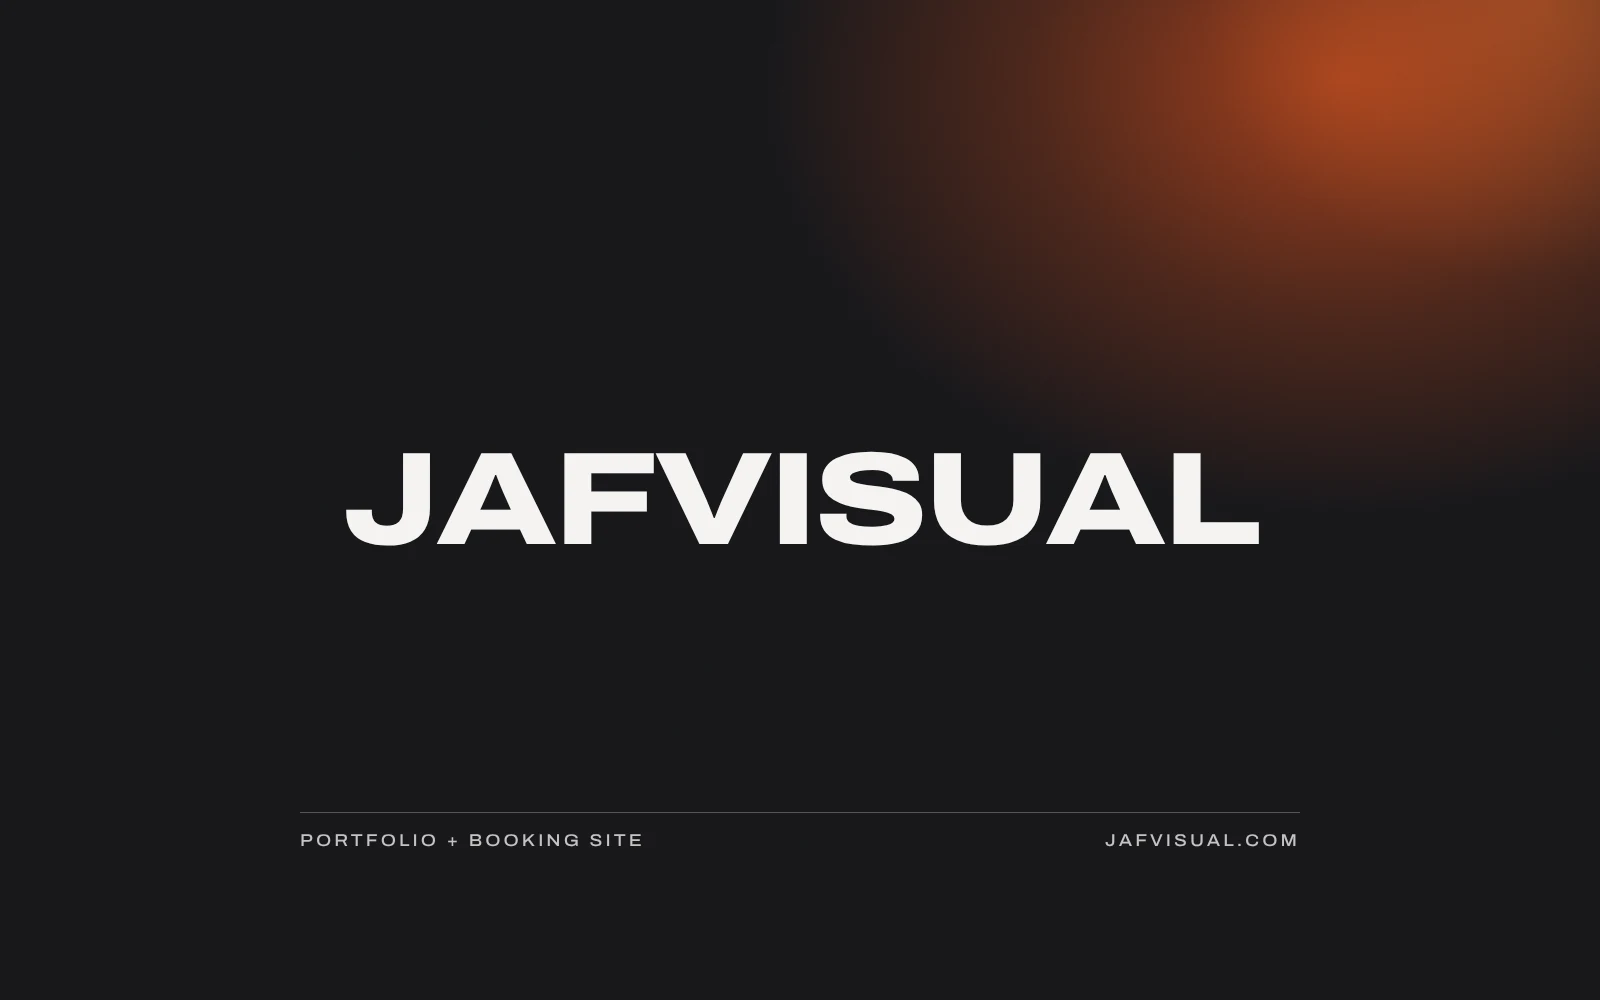
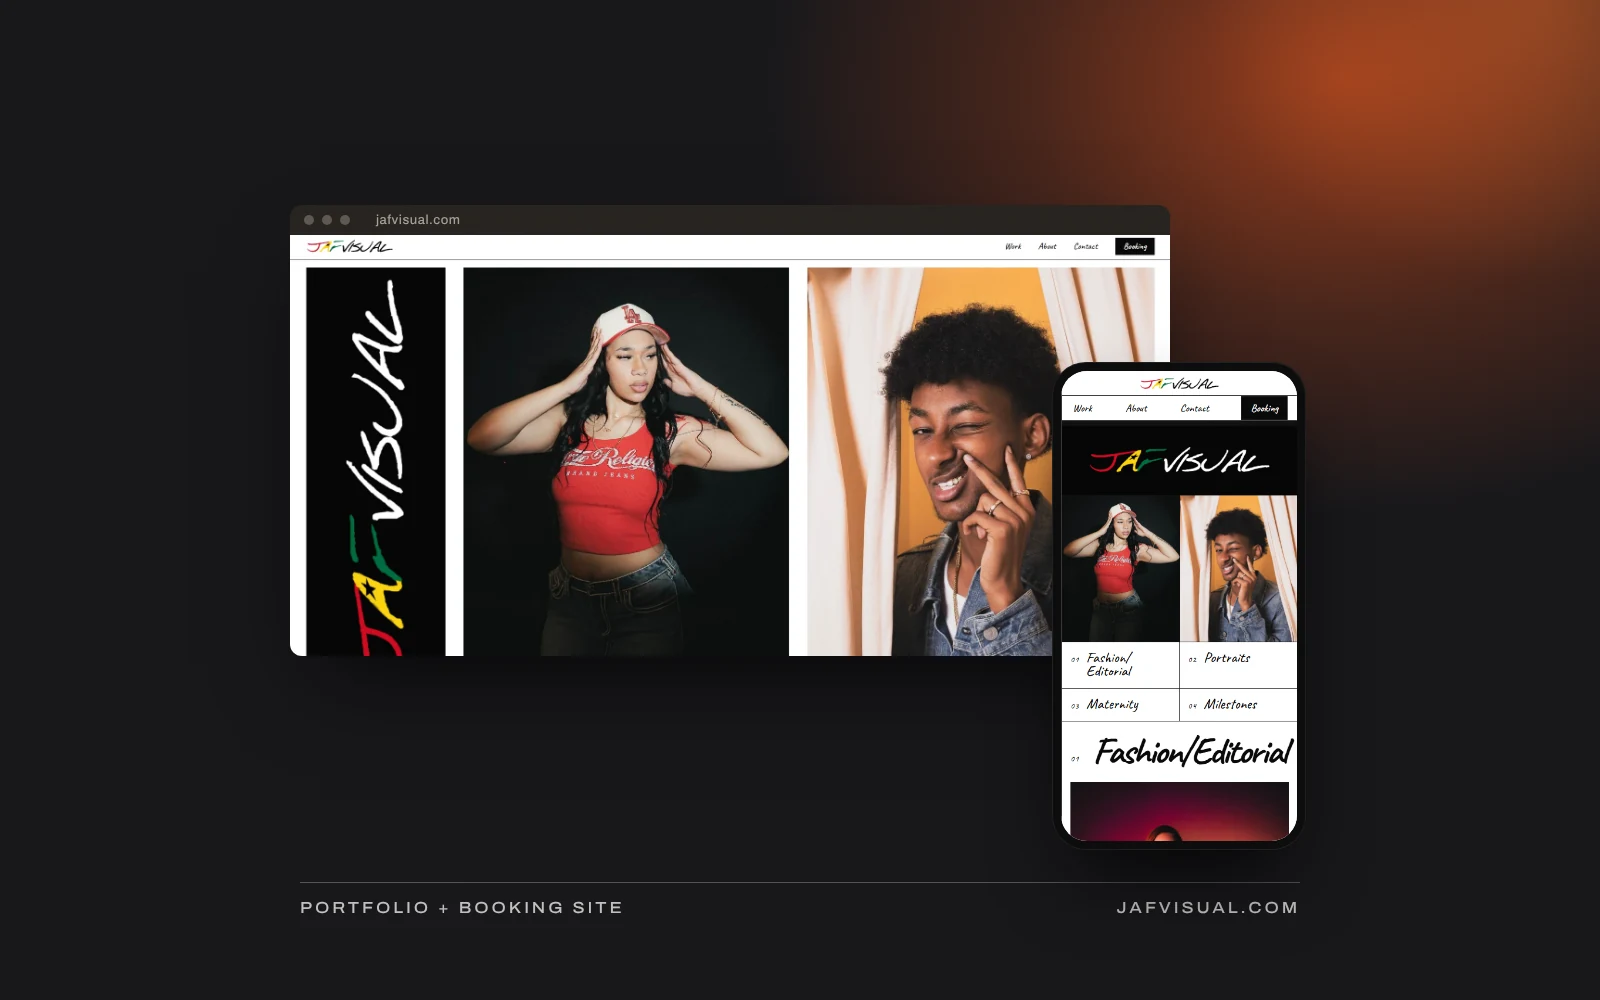
Use real jafvisual.com screenshots for the JAFVISUAL project
- The cover (assets/images/work/jafvisual.webp, still 1600 × 1000) is now
  the live site: the desktop homepage in a browser frame with the phone
  view overlapping it, on the same graphite and flame ground, kept inside
  the centre so the homepage cards and work index can crop the sides.
  It replaces the interim typeset cover on the homepage card, the work
  index, the case-study hero and the share image.
- The case study's Visit section shows the desktop and phone screenshots
  side by side, sized so both end at the same height; they stack on
  small screens.
- Alt text describes what the screens show.

No bookings figure for now.

Claude-Session: https://claude.ai/code/session_01Wksg97bj4J1xHZUjKxUufA

diff --git a/jafvisual.html b/jafvisual.html
@@ -78,7 +78,7 @@
     <div class="shell">
       <div class="case-media-wrap case-media-wrap--cap">
         <figure class="case-media" style="margin:0" data-mask-media>
-          <img src="assets/images/work/jafvisual.webp" alt="The JAFVISUAL wordmark on a dark ground with an orange glow." width="1600" height="1000" fetchpriority="high" decoding="async">
+          <img src="assets/images/work/jafvisual.webp" alt="The JAFVISUAL site on desktop and phone: the hand-lettered logo beside fashion and portrait photography." width="1600" height="1000" fetchpriority="high" decoding="async">
         </figure>
         <div class="case-media__cap">
           <span class="label">jafvisual.com</span>
@@ -175,6 +175,16 @@
             <span class="label">Visit</span>
             <h2>See it live.</h2>
             <p class="body-copy">The site is live and taking bookings.</p>
+            <div class="case-screens">
+              <figure>
+                <img src="assets/images/work/jafvisual-desktop.webp" alt="The JAFVISUAL homepage on desktop: the vertical hand-lettered logo beside a fashion portrait and a studio portrait, with Work, About, Contact and Booking in the header." width="1897" height="907" loading="lazy" decoding="async">
+                <figcaption class="label">Desktop</figcaption>
+              </figure>
+              <figure>
+                <img src="assets/images/work/jafvisual-mobile.webp" alt="The JAFVISUAL homepage on a phone: the logo, two portraits, and the four shoot categories, Fashion/Editorial, Portraits, Maternity and Milestones." width="402" height="833" loading="lazy" decoding="async">
+                <figcaption class="label">Phone</figcaption>
+              </figure>
+            </div>
             <div class="archive-item__actions">
               <a class="link-action" href="https://jafvisual.com/" target="_blank" rel="noopener">jafvisual.com <span class="arrow" aria-hidden="true">&#8599;</span></a>
             </div>

diff --git a/assets/css/site.css b/assets/css/site.css
@@ -1988,6 +1988,23 @@ p strong { color: var(--ink); font-weight: 560; }
 
 .gallery figcaption { margin-top: 9px; }
 
+/* Desktop and phone side by side, each at its own proportions; the phone
+   column is sized so both screens end at the same height. */
+.case-screens {
+  display: grid;
+  grid-template-columns: minmax(0, 2.09fr) minmax(0, .483fr);
+  gap: clamp(12px, 1.6vw, 22px);
+  align-items: start;
+  margin-block: clamp(22px, 3vw, 36px);
+}
+.case-screens figure { margin: 0; }
+.case-screens img { width: 100%; border-radius: 8px; border: 1px solid var(--hairline); }
+.case-screens figcaption { margin-top: 9px; }
+@media (max-width: 640px) {
+  .case-screens { grid-template-columns: 1fr; }
+  .case-screens figure + figure { width: 58%; justify-self: center; }
+}
+
 /* Next project — the dark transition out of a case study. */
 .next-project {
   position: relative;

diff --git a/index.html b/index.html
@@ -112,7 +112,7 @@
           </div>
         </article>
         <article class="home-card home-card--3" style="--i:2">
-          <div class="home-card__pic"><img src="assets/images/work/jafvisual.webp" alt="The JAFVISUAL wordmark on a dark ground with an orange glow." width="1600" height="1000" loading="lazy" decoding="async"></div>
+          <div class="home-card__pic"><img src="assets/images/work/jafvisual.webp" alt="The JAFVISUAL site on desktop and phone: the hand-lettered logo beside fashion and portrait photography." width="1600" height="1000" loading="lazy" decoding="async"></div>
           <div class="home-card__txt">
             <div class="home-card__meta"><span class="label">JAFVISUAL</span><span class="label">2026</span></div>
             <h3 class="home-card__title">JAFVISUAL</h3>

diff --git a/work.html b/work.html
@@ -119,7 +119,7 @@
       </a>
       <a class="work-piece" href="jafvisual.html">
         <span class="work-piece__media" data-mask-media>
-          <img src="assets/images/work/jafvisual.webp" alt="The JAFVISUAL wordmark on a dark ground with an orange glow." width="1600" height="1000"
+          <img src="assets/images/work/jafvisual.webp" alt="The JAFVISUAL site on desktop and phone: the hand-lettered logo beside fashion and portrait photography." width="1600" height="1000"
                loading="lazy" decoding="async" data-parallax="3" data-parallax-scale="1.08">
         </span>
         <span class="work-piece__body">
